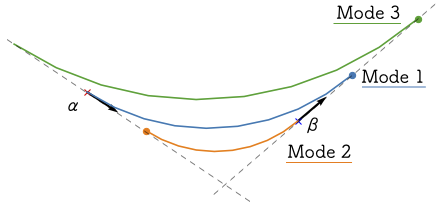
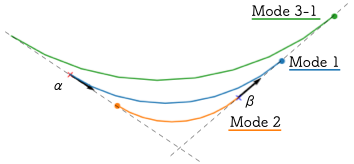
reference guide整備

diff --git a/docs_src/reference_measure.rst b/docs_src/reference_measure.rst
@@ -112,7 +112,7 @@ mapsyntaxチェックを外すと、Curve構文での出力を停止します。
 Mode
 -----
 
-計算Modeは次の7種類から選べます。
+計算Modeは次の通りです。
 
 * 1. α(fix)->β(free), R(free)
 
@@ -122,12 +122,36 @@ Mode
 
   * カーソルαの延長線上に始点をもち、カーソルβを終点とする曲線軌道の半径R、円曲線長CCLを求める
 
-* 3. α(free)->β(free), R(fix)
+* 3-1. α(free)->β(free), R(fix)
 
   * Rフィールドに入力された半径Rの曲線軌道について、カーソルα, βの延長線上に始点, 終点を持つものを求める
   * 求めた軌道について、軌道始点とカーソルαとの距離、円曲線長CCLを出力する
 
 .. image:: ./files/curvetracksolver.png
+
+* 3-2. α->γ->β, (fixed R,R2)
+
+  * 半径Rでカーソルα, γの延長線上に始点、終点を持つ曲線軌道1、半径R2でカーソルγ, βの延長線上に始点、終点を持つ曲線軌道2を同時に求める
+    
+    * 緩和曲線長について
+
+      * TCL1, TCL3: 曲線軌道1の入口側、出口側
+      * TCL4, TCL2: 曲線軌道2の入口側、出口側
+    
+  * 求めた軌道について次のパラメータを出力する
+
+    * 曲線軌道1の始点とカーソルαとの距離
+    * 曲線軌道1の円曲線長CCL1
+    * 曲線軌道2の円曲線長CCL2
+    * 曲線軌道1の終点と曲線軌道2の始点の距離L intermediate
+  * 与えられた条件で軌道が求められない場合、"Invalid parameters"エラーを出す
+
+    * 例
+
+      * 曲線軌道1終点よりも手前に曲線軌道2始点が来る場合
+      * 曲線半径R, R2の符号がカーソルα, γ, βの方位と一貫しない場合
+
+  * .. image:: ./files/curvetracksolver_3-2.png
 
 * 4. α(fix), R(fix), CCL(fix)
 
@@ -163,6 +187,89 @@ Mode
 
   * その他の注意点はMode 6と同様
 
+* 8. Reverse curve
+
+  * カーソルαを起点、カーソルβの延長線上を終点とする反向曲線（互いに向きの異なる2つの円曲線が接続したもの）を求める
+  * 8-1. Reverse α->β
+
+    * 起点側の曲線軌道終点はカーソルα, βの中点に自動設定
+
+  * 8-2. Reverse α->γ->β
+
+    * カーソルγの位置で起点側の曲線軌道終点を指定する
+
+      * カーソルγの方位(Dir.)は無視されます
+      
+  * 入力パラメータ(8-1, 8-2共通)
+      
+    * TCL1, 3: 起点側曲線軌道の緩和曲線長(1: 入口側、3:出口側)
+    * TCL4, 2: 終点側曲線軌道の緩和曲線長(4: 入口側、2:出口側)
+    * L intermediate: 2つの曲線軌道の中間に挿入される直線長さ
+
+  * .. image:: ./files/curvetracksolver_8.png
+
+* 9. Compound curve
+
+  * カーソルαを起点、カーソルβの延長線上を終点とする複心曲線（半径の異なる二つの円曲線が接続したもの）を求める
+
+    * 以下の説明では二つの円曲線の向きが同じ場合を示していますが、カーソルα, βの設定次第では反向曲線も求められます
+  * 9-1. Compound α->γ->β
+
+    * カーソルγで起点側 **円軌道** の終点を指定する
+
+      * 位置(Pos.)と方位(Dir.)の両者を指定する必要があります
+      * 正確には次の計算手順を経るため、カーソルγを通過しない曲線が得られる場合があります
+
+	1. カーソルαを起点、カーソルγの延長線上を終点とする曲線の半径R1を求め、起点側曲線軌道の半径とする
+
+	   * この曲線の入口側緩和曲線長さはTCL1、終点側緩和曲線なしとする
+
+	2. 1.で求めた曲線軌道上の点を始点、カーソルβの延長線上を終点とする曲線(半径R2)を求める
+
+	   * この曲線の入口側緩和曲線長さはTCL4, 終点側緩和曲線長さはTCL2とする
+	   * 入口側緩和曲線は、半径R1からR2へ遷移する曲線となる
+
+    * 入力パラメータ
+      
+      * TCL1: 起点側曲線軌道入口側の緩和曲線長
+      * TCL4: 2つの曲線軌道の中間緩和曲線長
+      * TCL2: 終点側曲線軌道出口側の緩和曲線長
+      * TCL3, L intermediate は無効です
+
+    * 与えられた条件で軌道が求められない場合、"Invalid parameters"エラーを出す
+
+    * .. image:: ./files/curvetracksolver_9-1.png
+      
+  * 9-2. Compound α->β (fixed R)
+
+    * 起点側曲線軌道の半径をRとした場合の複心曲線を求める
+
+      * カーソルγは無効
+	
+    * 入力パラメータ
+
+      * R: 起点側曲線軌道の半径
+      * L intermediate: 2つの曲線軌道の中間直線長
+      * TCL1: 起点側曲線軌道入口側の緩和曲線長
+      * TCL2: 終点側曲線軌道出口側の緩和曲線長
+      * L intermediate == 0の場合
+
+	* TCL4: 2つの曲線軌道の中間緩和曲線長
+	* TC3は無効
+
+      * L intermediate > 0の場合
+
+	* TCL3: 起点側曲線軌道出口側の緩和曲線長
+	* TCL4: 終点側巨船軌道入口側の緩和曲線長
+
+      * .. image:: ./files/curvetracksolver_9_curvature.png
+	
+    * 与えられた条件で軌道が求められない場合、"Invalid parameters"エラーを出す
+      
+  * 9-3. Compound α->β (fixed R,R2)
+
+    * 起点側曲線軌道の半径をR、終点側をR2とした場合の複心曲線を求める
+    * 他はMode 9-2と同一
 
 計算結果の出力例
 -----------------------
